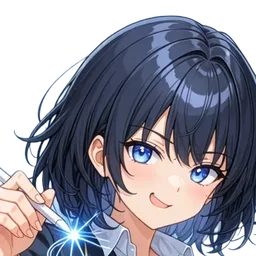
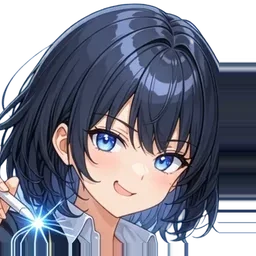
PC で文字・絵が潰れる対策：縮小表示のときだけキャンバスを滑らかな縮小に（等倍・拡大は pixelated のまま）。顔アイコンの位置補正（徹・美麗は左へ、澪は左下へ、律花は0.8倍）

diff --git a/src/main.ts b/src/main.ts
@@ -41,6 +41,18 @@ function start(): void {
   });
   AudioBus.init(game);
   (window as unknown as { __game: Phaser.Game }).__game = game; // デバッグ用
+
+  // PC で文字や絵が潰れる対策（2026-10-17）：キャンバスが縮小表示されるとき（表示倍率 < 1。縦 1280 の論理解像度に対し PC の窓は低い）は、
+  // ドット用の最近傍（pixelated）だと縮小で線が欠けるので、通常の滑らかな縮小にする。等倍・拡大（スマホ）のときは pixelated のまま
+  const applyCanvasSmoothing = () => {
+    const c = game.canvas;
+    const ratio = c.clientWidth > 0 ? c.clientWidth / c.width : 1;
+    c.style.imageRendering = ratio < 0.999 ? 'auto' : 'pixelated';
+  };
+  game.scale.on('resize', applyCanvasSmoothing);
+  game.events.once('ready', applyCanvasSmoothing);
+  window.addEventListener('resize', () => setTimeout(applyCanvasSmoothing, 50));
+  setTimeout(applyCanvasSmoothing, 0);
 }
 
 // Webフォントの読み込みを待ってから開始（最大1.5秒）。音声ファイルの存在確認も同時に行う
